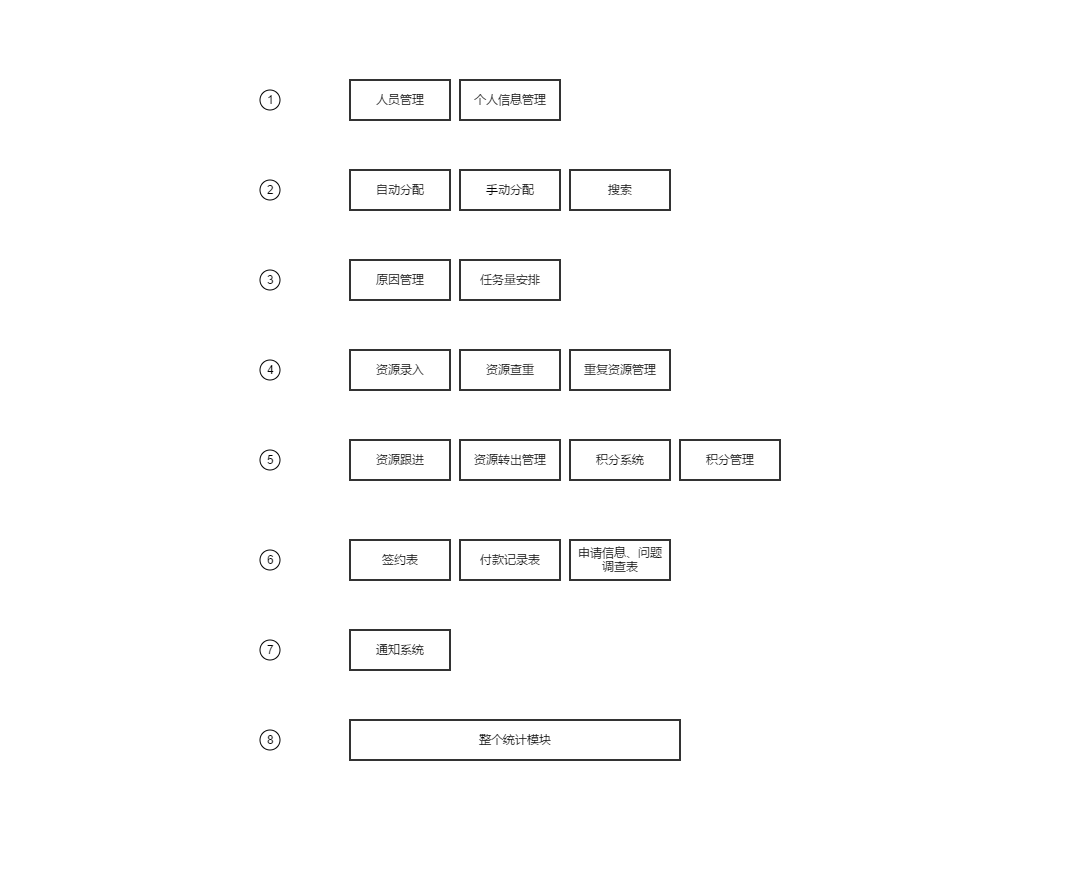
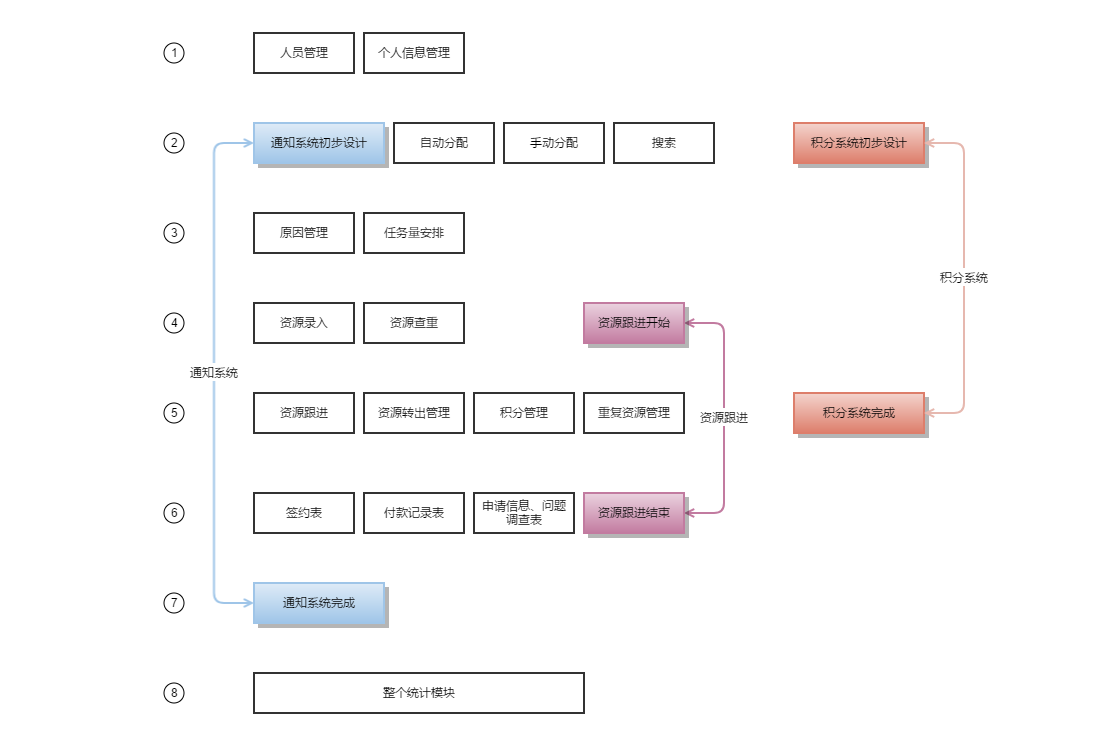
Updates kai-fa-shun-xu.md
Auto commit by GitBook Editor

diff --git a/kai-fa-shun-xu.md b/kai-fa-shun-xu.md
@@ -1,1 +1,9 @@
 ![](/assets/开发顺序.png)
+
+### 说明
+
+1、为用户管理部分。
+2、为资源分配机制，分配完后就可以实现搜索功能。
+3、在跟进及资源前需要准备的部分数据。
+4、销售的资源录入部分
+5、销售资源跟进部分，在这一步能确认积分系统。
